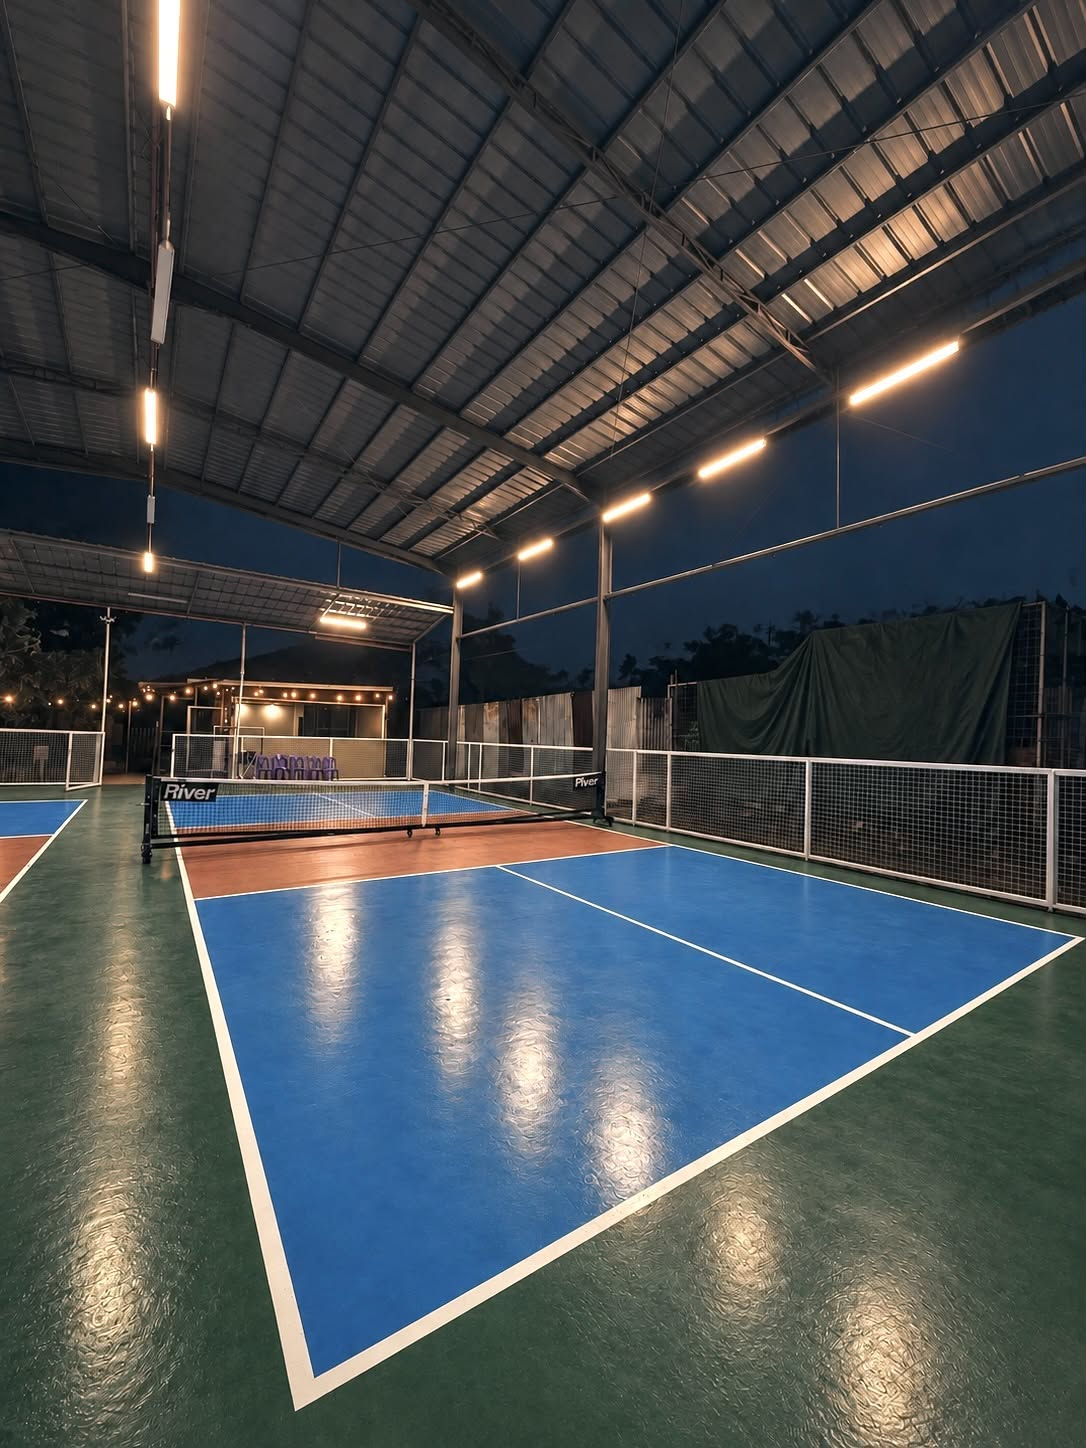
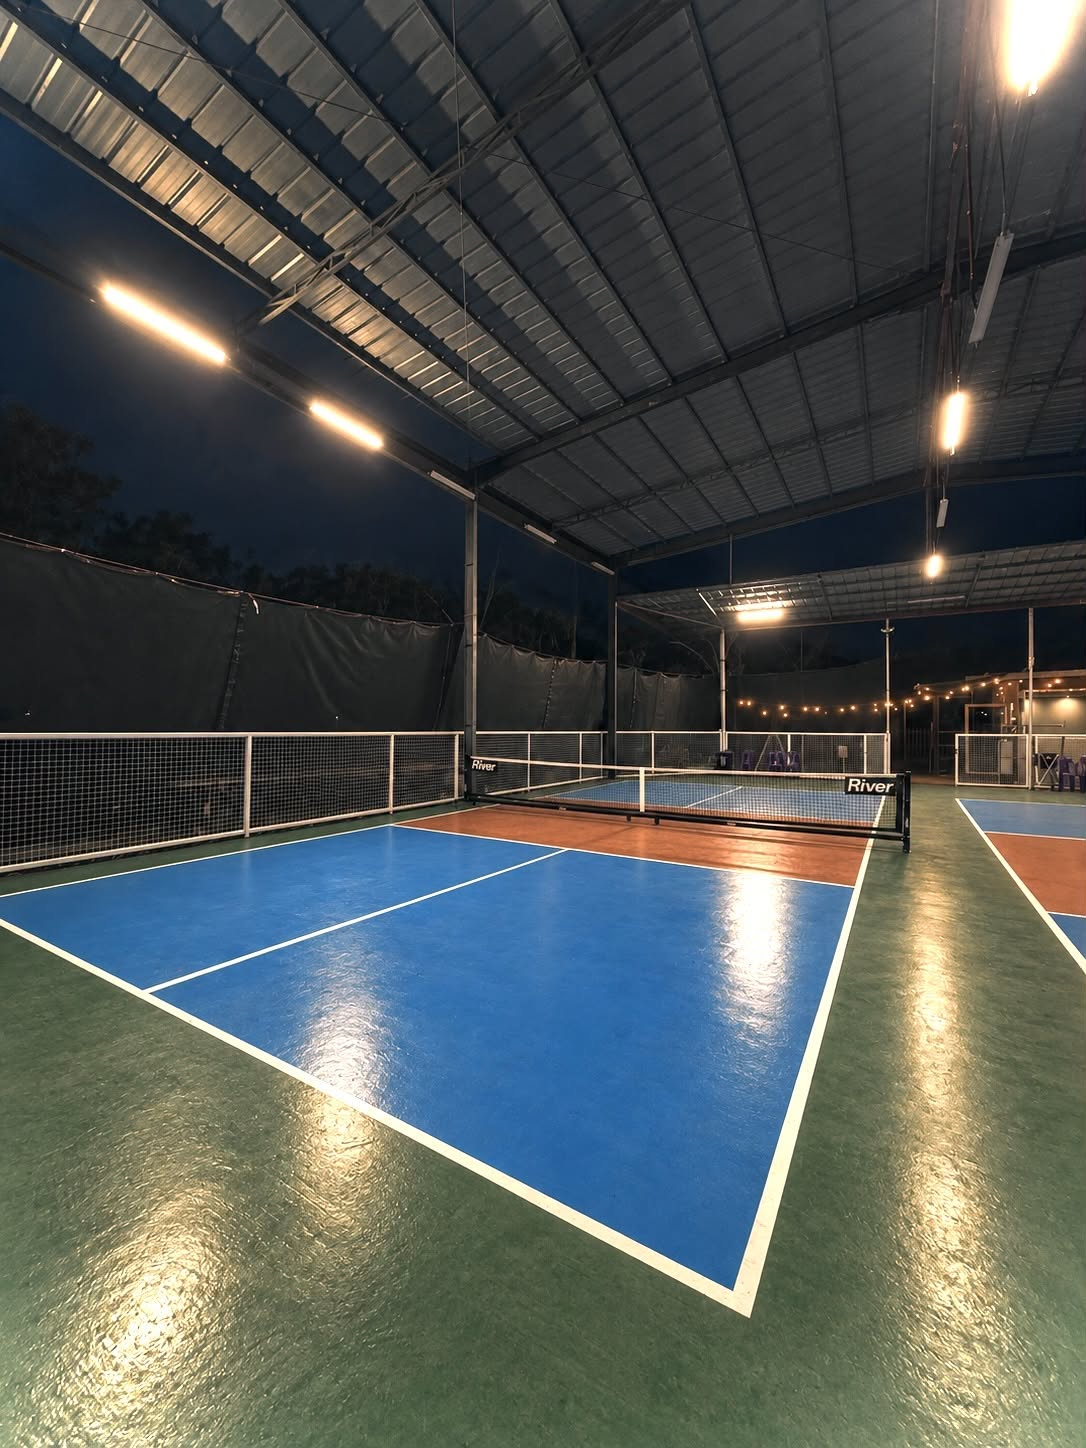
feat: add approvedAt field to bookings for cash-basis revenue tracking; update related functions and tests

diff --git a/src/lib/admin/finance.ts b/src/lib/admin/finance.ts
@@ -53,33 +53,30 @@ function pesosToCents(amount: string): number {
   return result;
 }
 
+/**
+ * Cash-basis revenue: each Approved booking's full total lands on the Manila
+ * date it was approved (payment verified), never on its play dates. Expenses
+ * land on their paid_date, so same-day profit is meaningful.
+ */
 export function aggregateFinanceRows(
   from: string, to: string,
-  bookings: Array<{ id?: string; total: string; booking_slots: Array<{ slot_start: string }> }>,
+  bookings: Array<{ total: string; approved_at: string }>,
   expenses: Array<{ paid_date: string; amount_centavos: number }>,
 ): FinanceReport {
   const days = new Map<string, Omit<FinanceDay, "date">>();
-  const bookingDates = new Set<string>();
   let matchingBookingCount = 0;
   const ensure = (date: string) => days.get(date) ?? (days.set(date, { revenueCents: 0, expenseCents: 0, profitCents: 0, bookings: 0 }), days.get(date)!);
   for (const booking of bookings) {
-    const allSlots = [...(booking.booking_slots ?? [])].sort((a, b) => a.slot_start.localeCompare(b.slot_start));
-    const slots = allSlots.filter((slot) => { const date = manilaDateStr(new Date(slot.slot_start)); return date >= from && date <= to; });
-    if (!slots.length) continue;
+    if (!booking.approved_at) continue;
+    const date = manilaDateStr(new Date(booking.approved_at));
+    if (date < from || date > to) continue;
     matchingBookingCount += 1;
-    const total = pesosToCents(booking.total);
-    const each = Math.floor(total / allSlots.length); let remainder = total - each * allSlots.length;
-    const allocated = allSlots.map(() => each + (remainder-- > 0 ? 1 : 0));
-    for (const [index, slot] of allSlots.entries()) {
-      const date = manilaDateStr(new Date(slot.slot_start));
-      if (date < from || date > to) continue;
-      const day = ensure(date); day.revenueCents += allocated[index]!;
-    }
-    for (const date of new Set(slots.map((slot) => manilaDateStr(new Date(slot.slot_start))))) bookingDates.add(`${booking.id ?? matchingBookingCount}:${date}`);
+    const day = ensure(date);
+    day.revenueCents += pesosToCents(booking.total);
+    day.bookings += 1;
   }
   for (const expense of expenses) if (expense.paid_date >= from && expense.paid_date <= to) ensure(expense.paid_date).expenseCents += expense.amount_centavos;
   for (let date = from; date <= to; date = addDaysString(date)) ensure(date);
-  for (const key of bookingDates) { const date = key.slice(key.lastIndexOf(":") + 1); ensure(date).bookings += 1; }
   const result = [...days.entries()].map(([date, day]) => ({ date, ...day, profitCents: day.revenueCents - day.expenseCents })).sort((a, b) => a.date.localeCompare(b.date));
   const revenueCents = result.reduce((sum, row) => sum + row.revenueCents, 0);
   const expenseCents = result.reduce((sum, row) => sum + row.expenseCents, 0);
@@ -89,30 +86,25 @@ export function aggregateFinanceRows(
 export async function getFinanceReport(db: Db, from: string, to: string): Promise<FinanceReport> {
   const lo = new Date(`${from}T00:00:00+08:00`).toISOString();
   const hi = new Date(`${addDaysString(to)}T00:00:00+08:00`).toISOString();
-  const [ids, expenseResult] = await Promise.all([
-    fetchBookingIds(db, lo, hi),
+  const [bookings, expenseResult] = await Promise.all([
+    fetchApprovedBookings(db, lo, hi),
     db.from("expenses").select("paid_date,amount_centavos").gte("paid_date", from).lte("paid_date", to),
   ]);
   if (expenseResult.error) throw new Error(expenseResult.error.message);
-  const bookings: Array<{ id: string; total: string; booking_slots: Array<{ slot_start: string }> }> = [];
-  for (let offset = 0; offset < ids.length; offset += 100) {
-    const { data, error } = await db.from("bookings").select("id,total,booking_slots(slot_start)").eq("status", "Approved").in("id", ids.slice(offset, offset + 100));
-    if (error) throw new Error(error.message);
-    bookings.push(...((data ?? []) as typeof bookings));
-  }
   return aggregateFinanceRows(from, to, bookings, expenseResult.data ?? []);
 }
 
-async function fetchBookingIds(db: Db, fromIso: string, toIso: string): Promise<string[]> {
-  const ids: string[] = [];
+/** Approved bookings whose approval instant falls in [fromIso, toIso). */
+async function fetchApprovedBookings(db: Db, fromIso: string, toIso: string): Promise<Array<{ total: string; approved_at: string }>> {
+  const rows: Array<{ total: string; approved_at: string }> = [];
   for (let offset = 0; ; offset += 500) {
-    const { data, error } = await db.from("bookings").select("id,booking_slots!inner(slot_start)").eq("status", "Approved")
-      .gte("booking_slots.slot_start", fromIso).lt("booking_slots.slot_start", toIso)
-      .range(offset, offset + 499);
+    const { data, error } = await db.from("bookings").select("total,approved_at").eq("status", "Approved")
+      .gte("approved_at", fromIso).lt("approved_at", toIso)
+      .order("id", { ascending: true }).range(offset, offset + 499);
     if (error) throw new Error(error.message);
-    const page = data ?? [];
-    ids.push(...page.map((row) => row.id));
-    if (page.length < 500) return [...new Set(ids)];
+    const page = (data ?? []) as Array<{ total: string; approved_at: string | null }>;
+    rows.push(...page.map((row) => ({ total: row.total, approved_at: row.approved_at ?? "" })));
+    if (page.length < 500) return rows;
   }
 }
 

diff --git a/src/app/admin/finance/page.tsx b/src/app/admin/finance/page.tsx
@@ -6,7 +6,7 @@ import { FinanceChart } from "@/components/admin/finance-chart";
 import { getDb } from "@/db/client";
 import { getFinanceReport, normalizeFinanceRange } from "@/lib/admin/finance";
 import { listExpenses, listExpensesForExport } from "@/lib/admin/expenses";
-import { formatPesosFromCents } from "@/lib/admin/bookings";
+import { formatBookingDate, formatPesosFromCents } from "@/lib/admin/bookings";
 import { ExpenseActions, FinanceExport, FinanceFilters } from "./finance-controls";
 
 export const dynamic = "force-dynamic";
@@ -17,12 +17,13 @@ export default async function FinancePage({ searchParams }: { searchParams: Prom
   const { from, to } = normalizeFinanceRange(first(params.from), first(params.to), now);
   try {
     const db = getDb(); const category = first(params.category); const q = first(params.q);
+    const expenseFilters = [category && `category "${category}"`, q && `search "${q}"`].filter(Boolean).join(", ");
     const [report, expenses, exportExpenses] = await Promise.all([getFinanceReport(db, from, to), listExpenses(db, { from, to, category, q, limit: 100 }), listExpensesForExport(db, { from, to, category, q })]);
     return <div className="space-y-5">
-      <header className="flex flex-wrap items-start justify-between gap-3"><div><h1 className="text-2xl font-semibold tracking-tight">Finance</h1><p className="mt-1 text-sm text-muted-foreground">Track your revenue, expenses, and profit in one place.</p></div><div className="flex flex-wrap gap-2"><FinanceFilters from={from} to={to} category={first(params.category)} q={first(params.q)} today={now} /><FinanceExport days={report.days} expenses={exportExpenses} range={`${from}_${to}`} /><ExpenseActions today={now} /></div></header>
-      <div className={STAT_CARD_GRID}><StatCard label="Booking Revenue" value={formatPesosFromCents(report.revenueCents)} icon={DollarSign} subtitle="Approved booking totals in range" /><StatCard label="Expenses" value={formatPesosFromCents(report.expenseCents)} icon={ReceiptText} subtitle="Total recorded paid expenses" /><StatCard label="Net Profit" value={formatPesosFromCents(report.profitCents)} icon={TrendingUp} subtitle="Booking Revenue − Expenses" /><StatCard label="Booking Count" value={String(report.bookings)} icon={CalendarDays} subtitle="Approved bookings with slots in range" /></div>
+      <header className="flex flex-wrap items-start justify-between gap-3"><div><h1 className="text-2xl font-semibold tracking-tight">Finance</h1><p className="mt-1 text-sm text-muted-foreground">Showing {formatBookingDate(from)} – {formatBookingDate(to)} · Revenue counted when approved{expenseFilters ? ` · Expense list: ${expenseFilters}` : ""}</p></div><div className="flex flex-wrap gap-2"><FinanceFilters from={from} to={to} category={first(params.category)} q={first(params.q)} today={now} /><FinanceExport days={report.days} expenses={exportExpenses} range={`${from}_${to}`} /><ExpenseActions today={now} /></div></header>
+      <div className={STAT_CARD_GRID}><StatCard label="Booking Revenue" value={formatPesosFromCents(report.revenueCents)} icon={DollarSign} subtitle="Approved in this range, counted on approval date" /><StatCard label="Expenses" value={formatPesosFromCents(report.expenseCents)} icon={ReceiptText} subtitle="Total recorded paid expenses" /><StatCard label="Net Profit" value={formatPesosFromCents(report.profitCents)} icon={TrendingUp} subtitle="Booking Revenue − Expenses" /><StatCard label="Booking Count" value={String(report.bookings)} icon={CalendarDays} subtitle="Approved in this range" /></div>
       <Card><CardHeader><CardTitle>Revenue and profit trend</CardTitle><CardDescription>Daily, weekly, or monthly totals based on the selected range.</CardDescription></CardHeader><CardContent><FinanceChart days={report.days} /></CardContent></Card>
       <Card><CardHeader><CardTitle>Expenses</CardTitle><CardDescription>Newest paid expenses in the selected reporting period.</CardDescription></CardHeader><CardContent>{expenses.rows.length ? <div className="divide-y">{expenses.rows.map((e) => <div key={e.id} className="flex items-center justify-between gap-4 py-3 text-sm"><div className="min-w-0"><p className="font-medium">{e.title}</p><p className="text-muted-foreground">{e.paidDate} · {e.category}{e.vendor ? ` · ${e.vendor}` : ""}</p></div><div className="flex items-center gap-4"><p className="font-medium">{formatPesosFromCents(e.amountCentavos)}</p><ExpenseActions expense={e} today={now} /></div></div>)}</div> : <p className="py-8 text-center text-sm text-muted-foreground">No expenses recorded for this period.</p>}</CardContent></Card>
     </div>;
-  } catch { return <div><h1 className="text-2xl font-semibold">Finance</h1><p className="mt-2 text-sm text-muted-foreground">Finance data is unavailable until the expense SQL has been applied.</p></div>; }
+  } catch { return <div><h1 className="text-2xl font-semibold">Finance</h1><p className="mt-2 text-sm text-muted-foreground">Finance data is unavailable until the latest SQL files have been applied.</p></div>; }
 }

diff --git a/test/admin-finance.test.ts b/test/admin-finance.test.ts
@@ -3,33 +3,35 @@ import assert from "node:assert/strict";
 import { aggregateFinanceRows, bucketFinanceDays, normalizeFinanceRange } from "../src/lib/admin/finance.ts";
 import { buildFinanceCsv } from "../src/lib/admin/finance-export.ts";
 
-test("finance allocates a multi-date booking exactly across its slot dates", () => {
+test("finance counts a booking on its approval date, not its future play date", () => {
+  // Booked and paid/approved Oct 26 for a Nov 1 slot: cash-basis revenue
+  // belongs to October, not November.
   const booking = {
-    id: "booking-1",
     total: "10.01",
-    booking_slots: [
-      { slot_start: "2026-10-20T22:00:00.000Z" }, // Oct 21, 06:00 Manila
-      { slot_start: "2026-10-20T23:00:00.000Z" }, // Oct 21, 07:00 Manila
-      { slot_start: "2026-10-21T22:00:00.000Z" }, // Oct 22, 06:00 Manila
-    ],
+    approved_at: "2026-10-26T02:00:00.000Z", // Oct 26, 10:00 Manila
   };
-  const report = aggregateFinanceRows("2026-10-21", "2026-10-22", [booking], []);
+  const report = aggregateFinanceRows("2026-10-26", "2026-10-26", [booking], []);
   assert.equal(report.revenueCents, 1001);
   assert.equal(report.bookings, 1);
   assert.deepEqual(report.days.map(({ date, revenueCents, bookings }) => ({ date, revenueCents, bookings })), [
-    { date: "2026-10-21", revenueCents: 668, bookings: 1 },
-    { date: "2026-10-22", revenueCents: 333, bookings: 1 },
+    { date: "2026-10-26", revenueCents: 1001, bookings: 1 },
+  ]);
+});
+
+test("finance counts a multi-slot booking once, in full, on the approval date", () => {
+  const booking = { total: "10.01", approved_at: "2026-10-20T22:00:00.000Z" }; // Oct 21, 06:00 Manila
+  const report = aggregateFinanceRows("2026-10-21", "2026-10-21", [booking], []);
+  assert.equal(report.revenueCents, 1001);
+  assert.equal(report.bookings, 1);
+  assert.deepEqual(report.days.map(({ date, revenueCents, bookings }) => ({ date, revenueCents, bookings })), [
+    { date: "2026-10-21", revenueCents: 1001, bookings: 1 },
   ]);
 });
 
 test("admin cash booking with no payment proof still counts in finance and charts", () => {
-  // Admin walk-ins are born Approved and have no payment_proofs row. Revenue
-  // keys on status + slot date only, so the cash booking must be included.
-  const cashBooking = {
-    id: "cash-1",
-    total: "500.00",
-    booking_slots: [{ slot_start: "2026-10-21T02:00:00.000Z" }], // Oct 21, 10:00 Manila
-  };
+  // Admin walk-ins are born Approved (rpc_admin_create_booking stamps
+  // approved_at = now()) and have no payment_proofs row.
+  const cashBooking = { total: "500.00", approved_at: "2026-10-21T02:00:00.000Z" };
   const report = aggregateFinanceRows("2026-10-21", "2026-10-21", [cashBooking], []);
   assert.equal(report.revenueCents, 50000);
   assert.equal(report.bookings, 1);
@@ -40,24 +42,24 @@ test("admin cash booking with no payment proof still counts in finance and chart
   assert.equal(chart.buckets.reduce((sum, bucket) => sum + bucket.revenueCents, 0), 50000);
 });
 
-test("finance applies the range to slot dates and paid dates", () => {
+test("finance applies the range to approval dates and paid dates", () => {
   const report = aggregateFinanceRows(
     "2026-10-21",
     "2026-10-21",
-    [{ total: "20.00", booking_slots: [
-      { slot_start: "2026-10-20T22:00:00.000Z" },
-      { slot_start: "2026-10-21T22:00:00.000Z" },
-    ] }],
+    [
+      { total: "20.00", approved_at: "2026-10-20T23:00:00.000Z" }, // Oct 21, 07:00 Manila — in
+      { total: "99.00", approved_at: "2026-10-22T02:00:00.000Z" }, // Oct 22 Manila — out
+    ],
     [
       { paid_date: "2026-10-21", amount_centavos: 1250 },
       { paid_date: "2026-10-22", amount_centavos: 999 },
     ],
   );
-  assert.equal(report.revenueCents, 1000);
+  assert.equal(report.revenueCents, 2000);
   assert.equal(report.expenseCents, 1250);
-  assert.equal(report.profitCents, -250);
-  assert.equal(report.profitMargin, -25);
-  assert.equal(report.averageRevenueCents, 1000);
+  assert.equal(report.profitCents, 750);
+  assert.equal(report.profitMargin, 37.5);
+  assert.equal(report.averageRevenueCents, 2000);
 });
 
 test("finance fills empty dates and marks zero-denominator ratios unavailable", () => {

diff --git a/src/lib/admin/bookings.ts b/src/lib/admin/bookings.ts
@@ -414,29 +414,25 @@ export function formatPesosFromCents(cents: number): string {
 }
 
 /**
- * Revenue from Approved bookings only.
- *
- * The date filter runs in Postgres (booking_slots!inner join) and the page
- * walk (fetchPaged) keeps the row count off the URL, so a busy month costs a
- * couple of requests instead of one oversized `.in(id, …)`.
+ * Cash-basis revenue from Approved bookings only: each booking counts in full
+ * on the Manila date it was approved (bookings.approved_at), not on its play
+ * dates. The date filter runs in Postgres; the page walk (fetchPaged) keeps
+ * the row count off the URL.
  */
 export async function revenueByDay(
   db: Db,
   args: { from: Date; to: Date },
 ): Promise<RevenueResult> {
-  const rows = await fetchPaged<{
-    id: string;
-    total: string;
-    booking_slots: Array<{ slot_start: string }>;
-  }>((from, to) =>
-    db
-      .from("bookings")
-      .select("id,total,booking_slots!inner(slot_start)")
-      .eq("status", "Approved")
-      .gte("booking_slots.slot_start", args.from.toISOString())
-      .lt("booking_slots.slot_start", args.to.toISOString())
-      .order("id", { ascending: true })
-      .range(from, to),
+  const rows = await fetchPaged<{ total: string; approved_at: string | null }>(
+    (from, to) =>
+      db
+        .from("bookings")
+        .select("total,approved_at")
+        .eq("status", "Approved")
+        .gte("approved_at", args.from.toISOString())
+        .lt("approved_at", args.to.toISOString())
+        .order("id", { ascending: true })
+        .range(from, to),
   );
 
   const days = new Map<string, { bookings: number; revenueCents: number }>();
@@ -444,12 +440,8 @@ export async function revenueByDay(
   let totalCents = 0;
 
   for (const b of rows) {
-    // Earliest slot = the day the booking starts. The embedded join comes back
-    // unordered, so [0] was whichever slot the planner happened to return
-    // first: a 22:00-02:00 booking landed on the next day about half the time.
-    const min = earliestSlotMs(b.booking_slots ?? []);
-    if (!Number.isFinite(min)) continue;
-    const day = manilaDateStr(new Date(min));
+    if (!b.approved_at) continue;
+    const day = manilaDateStr(new Date(b.approved_at));
     const dayStart = manilaDayStart(day).getTime();
     if (dayStart < args.from.getTime() || dayStart >= args.to.getTime()) continue;
     const cents = pesosToCents(b.total);

diff --git a/src/db/schema.ts b/src/db/schema.ts
@@ -170,6 +170,12 @@ export const bookings = pgTable(
     playDate: date("play_date").notNull(),
     /** Admin-created booking collected in cash at the desk (no proof). */
     paidCash: boolean("paid_cash").notNull().default(false),
+    /**
+     * When an admin approved the booking — the payment-verification moment.
+     * Revenue is cash-basis and keys on this, not the slot dates. NULL until
+     * decided (and stays NULL for rejects).
+     */
+    approvedAt: timestamp("approved_at", { withTimezone: true }),
     rejectReason: text("reject_reason"),
     createdAt: timestamp("created_at", { withTimezone: true })
       .notNull()
